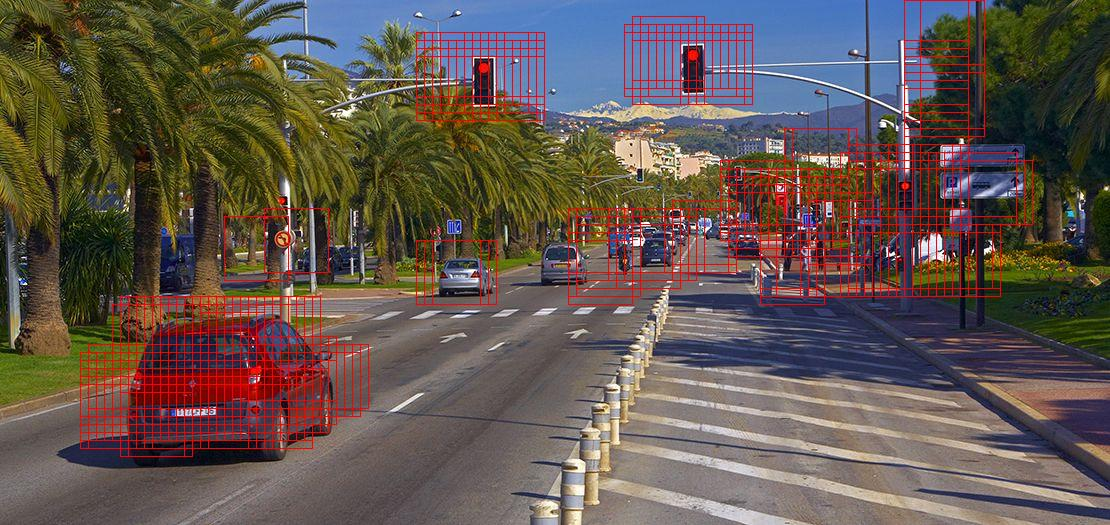
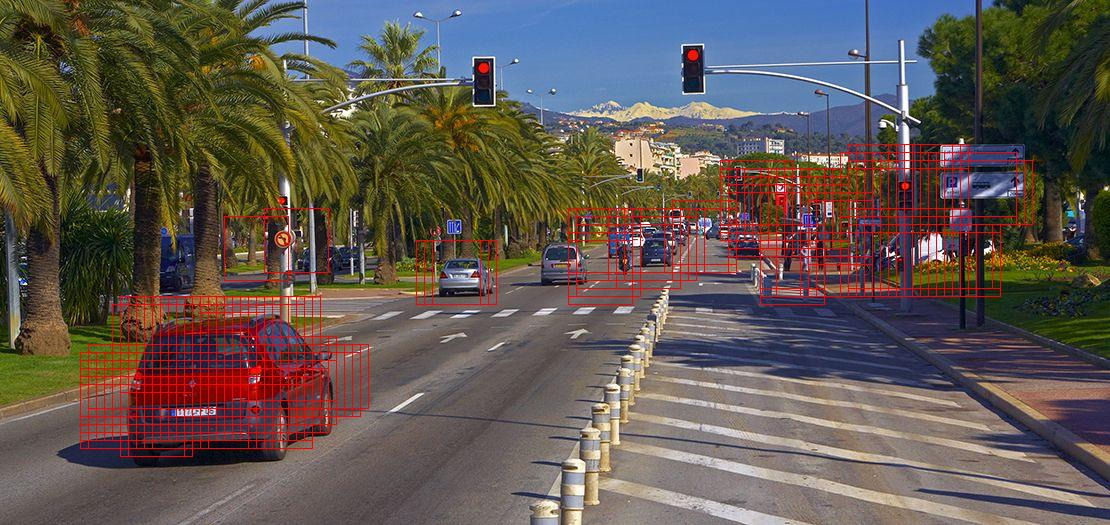
Minor improments

Changed region(s): [[0.7045, 0.0, 0.8883, 0.3048], [0.5514, 0.0305, 0.7045, 0.2133], [0.3676, 0.061, 0.4901, 0.2438]]

diff --git a/sw_algorithm.py b/sw_algorithm.py
@@ -114,8 +114,9 @@ def sliding_window(image,threshold=0.99,showhm=False):
     x = (xx[heatmap[:,:]>threshold])
     y = (yy[heatmap[:,:]>threshold])
     
-    for i,j in zip(x,y):
-        draw.rectangle((i*8,j*8,i*8+64,j*8+64), outline="red")
+    for i,j in zip(x,y): 
+        if j>image.height//32:
+            draw.rectangle((i*8,j*8,i*8+64,j*8+64), outline="red")
 
 
     # heatmap[heatmap[:,:]<=threshold]=0
@@ -129,7 +130,8 @@ def sliding_window(image,threshold=0.99,showhm=False):
     #     nonzeroy = np.array(nonzero[0])
     #     nonzerox = np.array(nonzero[1])
     #     box = (np.min(nonzerox), np.min(nonzeroy),np.max(nonzerox), np.max(nonzeroy))
-    #     draw.rectangle((box[0]*8,box[1]*8,box[2]*8,box[3]*8),outline="blue")
+    #     if box[2]>image.height//32 and box[2]-box[0]>8 and box[3]-box[1]>8:
+    #         draw.rectangle((box[0]*8,box[1]*8,box[2]*8,box[3]*8),outline="blue")
 
 files = glob.glob('SW_Test/*.jpg')
 
